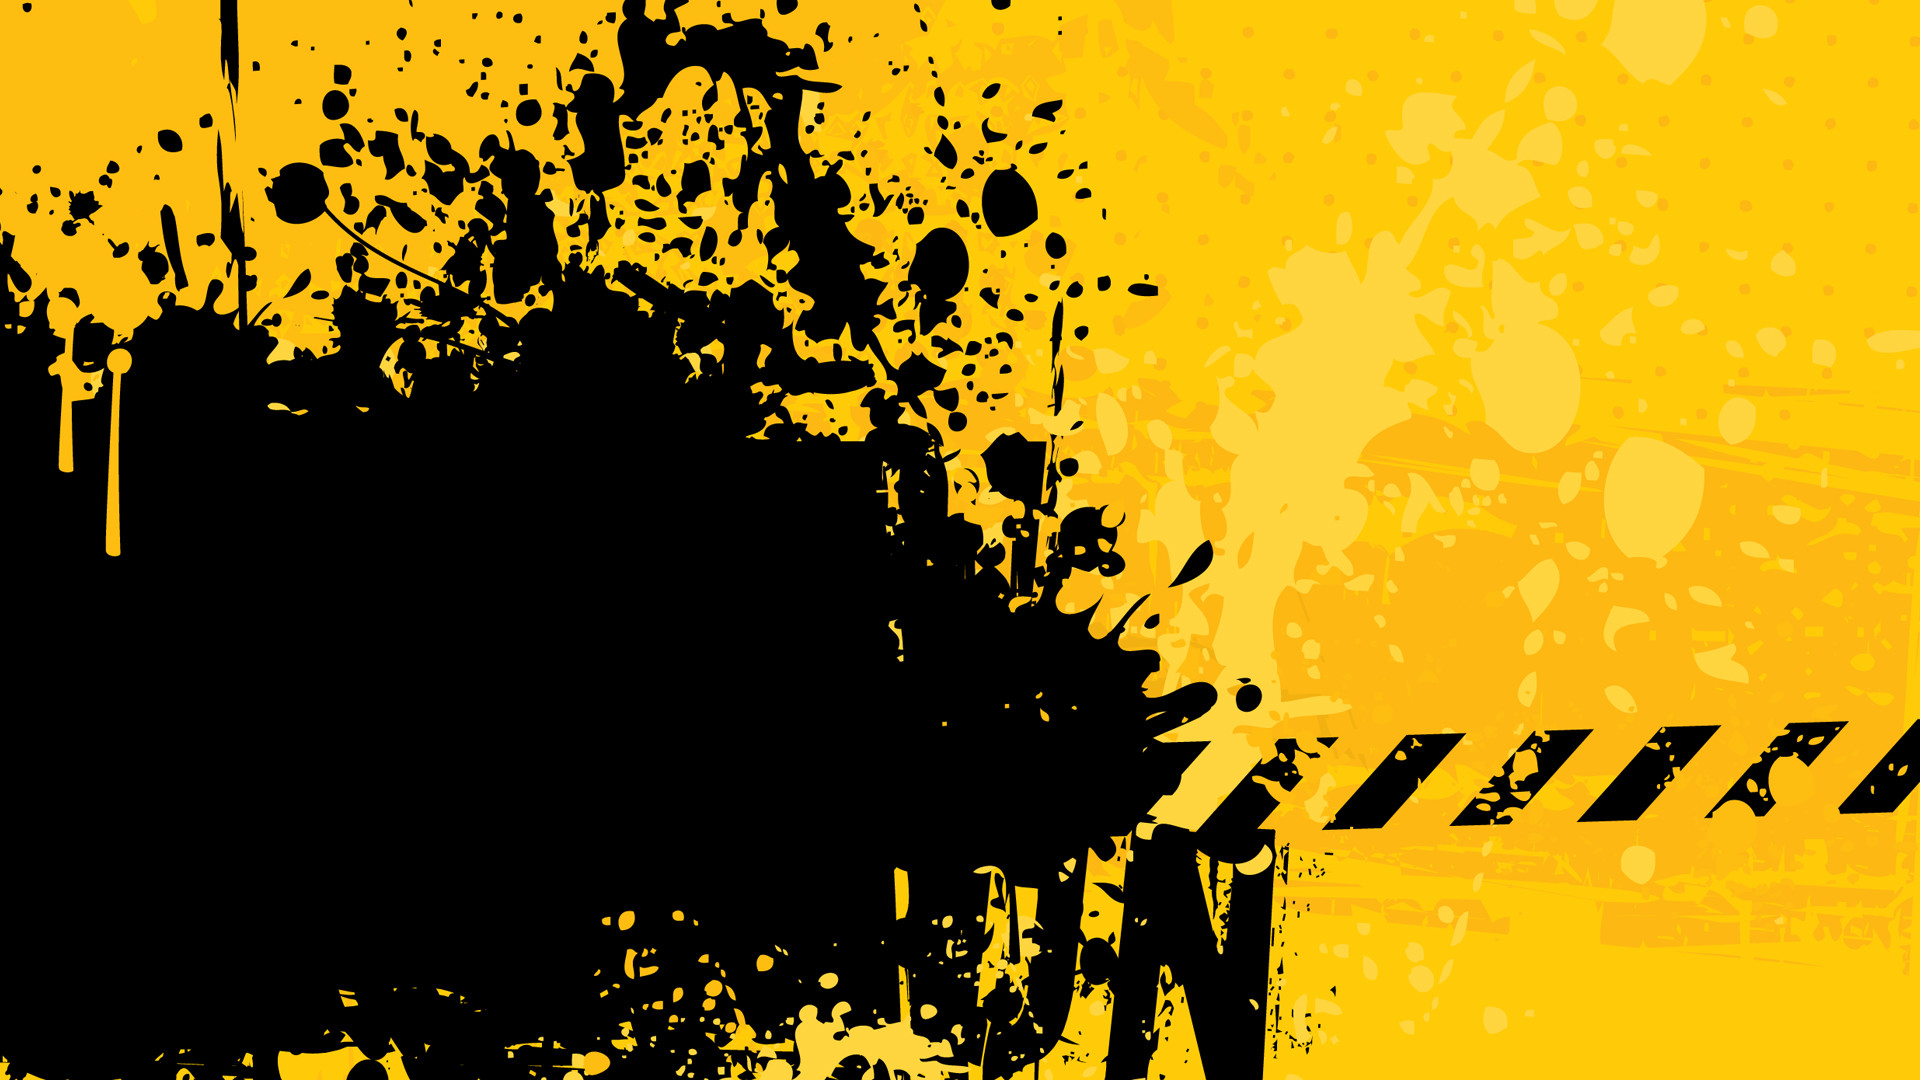
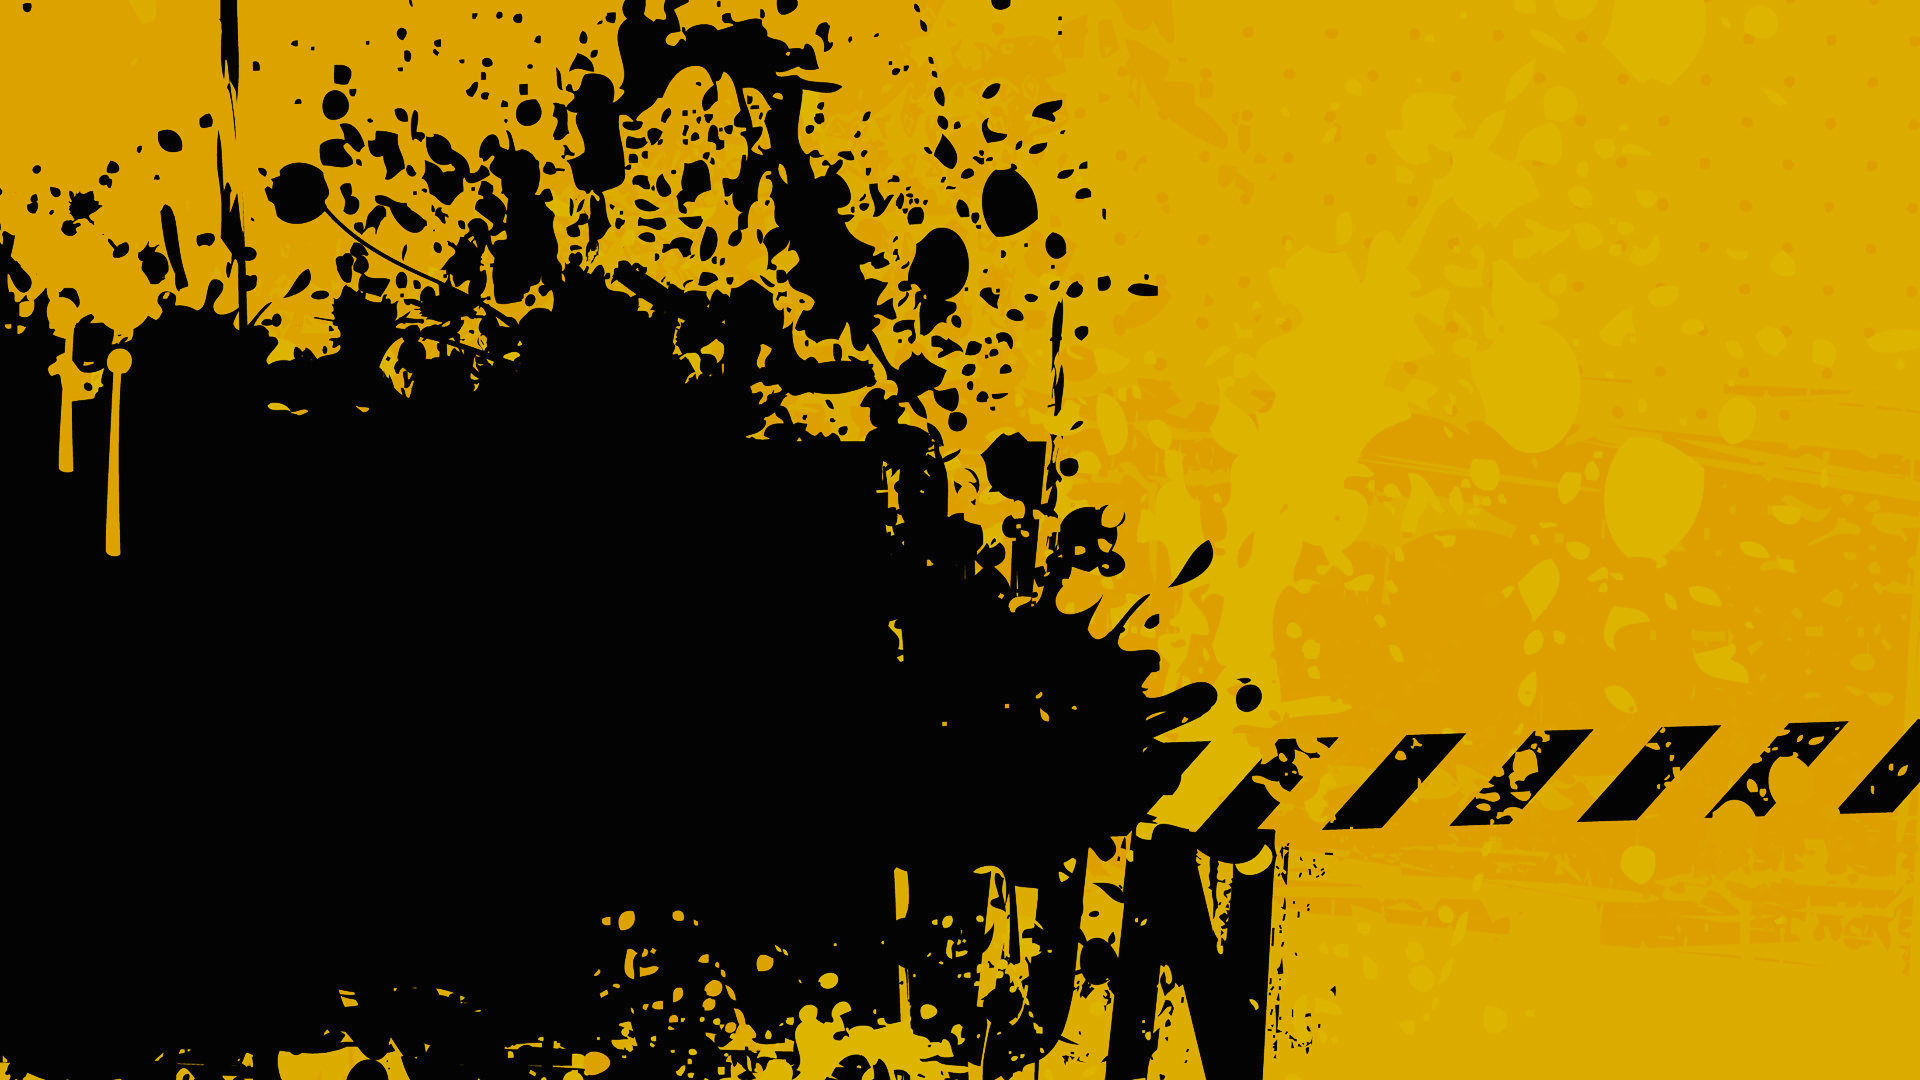
updated

diff --git a/index.html b/index.html
@@ -91,7 +91,7 @@
     <div id="wrapper">
         <!-- hero-wrap-->
         <div class="hero-wrap fl-wrap full-height" data-scrollax-parent="true">
-            <div class="bg par-elem "  data-bg="assests/images/12476451.jpg" data-scrollax="properties: { translateY: '30%' }"></div>
+            <div class="bg par-elem "  data-bg="assests/images/1247645.jpg" data-scrollax="properties: { translateY: '30%' }"></div>
             <div class="overlay"></div>
             <div class="hero-title-wrap fl-wrap">
                 <div class="container">
